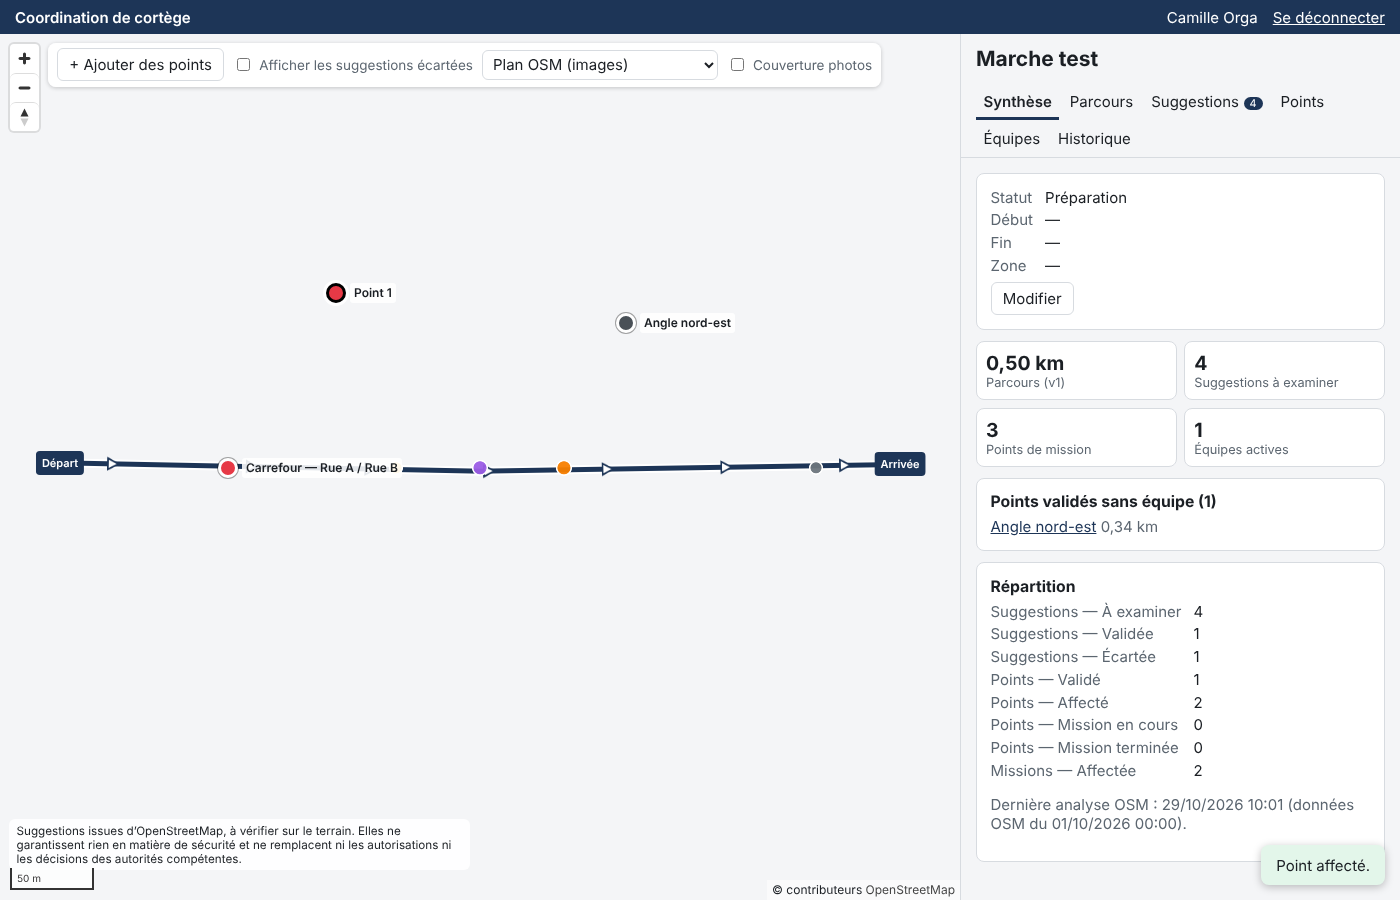
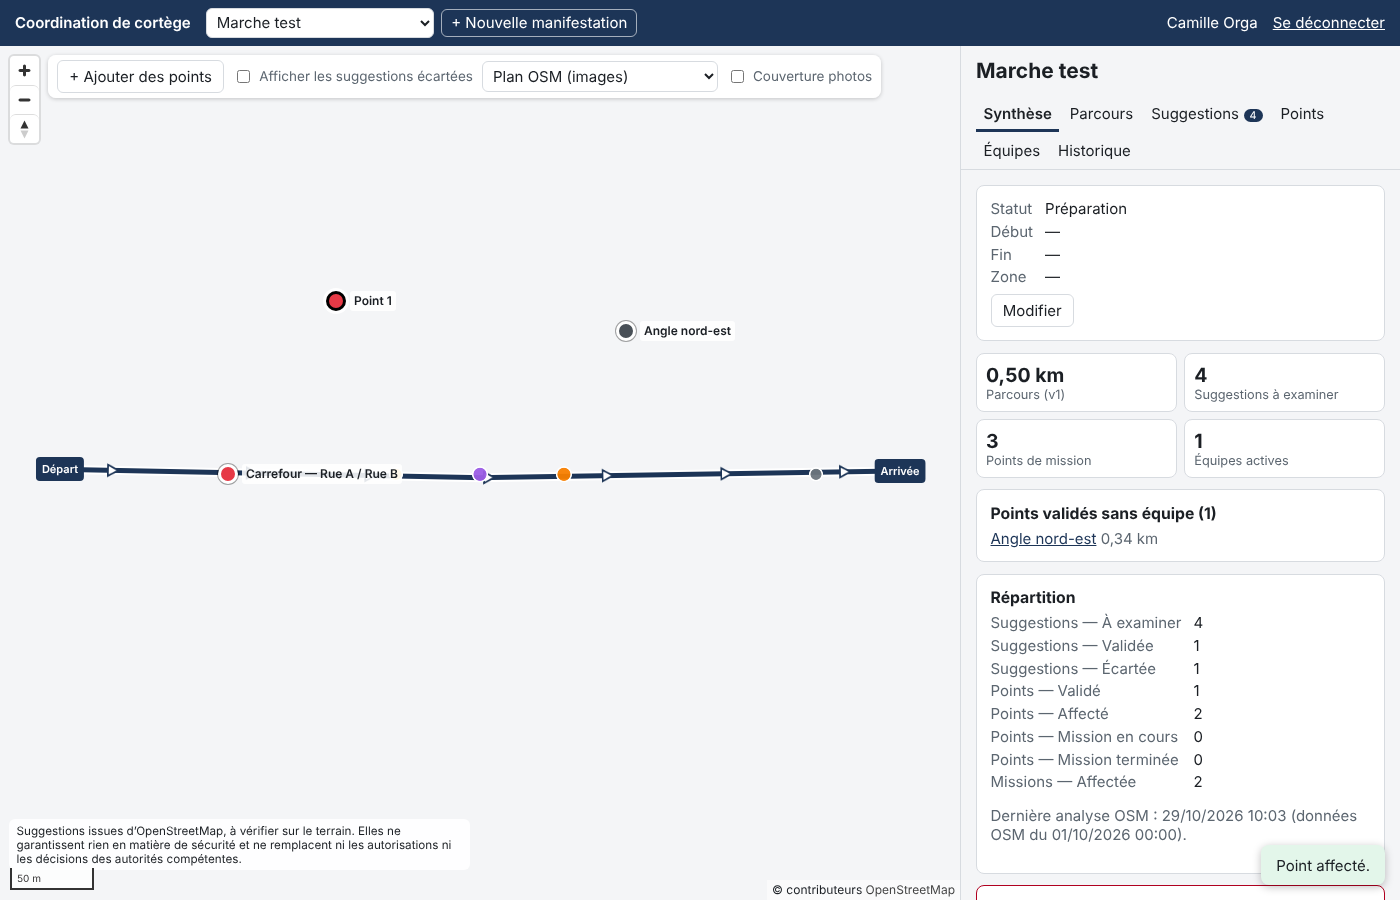
Manifestations : bascule et création depuis la barre du haut, suppression
- Barre du haut : liste des manifestations accessibles pour basculer de
  l'une à l'autre, bouton « + Nouvelle manifestation » (fenêtre de création)
- Suppression définitive d'une manifestation depuis sa synthèse : réservée
  à ses organisateurs, nom à retaper, refusée pendant l'événement ; toutes
  ses données sont supprimées, une trace reste dans le journal
- API DELETE /api/events/:id (ordre de suppression compatible avec les
  clés étrangères) et tests d'intégration ; test E2E du parcours complet

Claude-Session: https://claude.ai/code/session_01UxooiTpgr5FJ3Xxd8onjJv

diff --git a/server/test/teams.test.ts b/server/test/teams.test.ts
@@ -1,6 +1,6 @@
 import { afterAll, beforeAll, describe, expect, it } from 'vitest';
 import { Agent, createUser, setup, type TestContext } from './helpers/app.js';
-import { at } from './helpers/osm.js';
+import { at, gpxFrom, referenceNetwork } from './helpers/osm.js';
 
 let ctx: TestContext;
 let orga: Agent;
@@ -130,5 +130,44 @@ describe('équipes', () => {
     const other = (await orga.post('/api/events', { name: 'Autre' })).json().id;
     const foreign = (await orga.post('/api/events/' + other + '/points', { name: 'Ailleurs', position: at(0, 0) })).json().id;
     expect((await orga.post('/api/teams/' + b.id + '/missions', { pointId: foreign })).statusCode).toBe(404);
+  });
+});
+
+describe('suppression d’une manifestation', () => {
+  it('supprime toutes les données après confirmation du nom, et seulement pour un organisateur', async () => {
+    const id = (await orga.post('/api/events', { name: 'À supprimer' })).json().id;
+    const p = (await orga.post('/api/events/' + id + '/points', { name: 'P', position: at(0, 0) })).json().id;
+    const t = (await orga.post('/api/events/' + id + '/teams', { name: 'T', color: '#123456' })).json().id;
+    await orga.post('/api/teams/' + t + '/missions', { pointId: p });
+
+    const lecteur = await createUser(ctx.db, 'lecteur', 'aucun');
+    await orga.put('/api/events/' + id + '/members', { userId: lecteur, role: 'membre' });
+    const l = new Agent(ctx.app);
+    await l.login('lecteur');
+    expect((await l.request('DELETE', '/api/events/' + id, { confirmName: 'À supprimer' })).statusCode).toBe(403);
+
+    expect((await orga.request('DELETE', '/api/events/' + id, { confirmName: 'Autre nom' })).statusCode).toBe(400);
+    await orga.patch('/api/events/' + id, { status: 'en_cours', version: 1 });
+    expect((await orga.request('DELETE', '/api/events/' + id, { confirmName: 'À supprimer' })).statusCode).toBe(409);
+    await orga.patch('/api/events/' + id, { status: 'termine', version: 2 });
+
+    expect((await orga.request('DELETE', '/api/events/' + id, { confirmName: 'À supprimer' })).statusCode).toBe(200);
+    expect((await orga.get('/api/events/' + id)).statusCode).toBe(404);
+    for (const table of ['mission_points', 'teams', 'missions', 'audit_logs']) {
+      expect((await ctx.db.query('SELECT count(*)::int AS n FROM ' + table + ' WHERE event_id = $1', [id])).rows[0].n).toBe(0);
+    }
+    const trace = (await ctx.db.query("SELECT details FROM audit_logs WHERE entity = 'event' AND entity_id = $1 AND action = 'suppression'", [id])).rows;
+    expect(trace[0].details).toMatchObject({ name: 'À supprimer', points: 1, teams: 1, missions: 1 });
+  });
+
+  it('supprime une manifestation avec parcours et analyse OSM', async () => {
+    const id = (await orga.post('/api/events', { name: 'Avec parcours' })).json().id;
+    await orga.upload('/api/events/' + id + '/tracks', gpxFrom([[[0, 3], [250, -2], [500, 2]]]));
+    ctx.osm.data = referenceNetwork();
+    expect((await orga.post('/api/events/' + id + '/analyses', {})).statusCode).toBe(201);
+    const s = (await orga.get('/api/events/' + id + '/suggestions')).json();
+    await orga.post('/api/suggestions/' + s[0].id + '/validate', {});
+    expect((await orga.request('DELETE', '/api/events/' + id, { confirmName: 'Avec parcours' })).statusCode).toBe(200);
+    expect((await ctx.db.query('SELECT count(*)::int AS n FROM gpx_tracks WHERE event_id = $1', [id])).rows[0].n).toBe(0);
   });
 });

diff --git a/web/src/components/EventSwitcher.tsx b/web/src/components/EventSwitcher.tsx
@@ -1,0 +1,74 @@
+// Barre du haut : bascule entre manifestations et création d'une nouvelle manifestation.
+import { useCallback, useEffect, useRef, useState, type FormEvent } from 'react';
+import { ApiError, api } from '../api';
+import type { EventInfo, Me } from '../types';
+
+/** Événement de fenêtre émis quand la liste des manifestations change (création, renommage, suppression). */
+export const EVENTS_CHANGED = 'cortege:manifestations';
+export const notifyEventsChanged = () => window.dispatchEvent(new Event(EVENTS_CHANGED));
+
+export function EventSwitcher({ me, currentId }: { me: Me; currentId: number | null }) {
+  const [events, setEvents] = useState<EventInfo[]>([]);
+  const [creating, setCreating] = useState(false);
+  const canCreate = me.globalRole === 'admin' || me.globalRole === 'organisateur';
+
+  const load = useCallback(() => { api.get<EventInfo[]>('/api/events').then(setEvents, () => setEvents([])); }, []);
+  useEffect(() => {
+    load();
+    window.addEventListener(EVENTS_CHANGED, load);
+    return () => window.removeEventListener(EVENTS_CHANGED, load);
+  }, [load, currentId]);
+
+  return (
+    <div className="event-switcher">
+      <select
+        aria-label="Manifestation"
+        value={currentId ?? ''}
+        onChange={(e) => { window.location.hash = e.target.value ? '#/evenements/' + e.target.value : '#/'; }}
+      >
+        <option value="">Toutes les manifestations…</option>
+        {events.map((ev) => <option key={ev.id} value={ev.id}>{ev.name}</option>)}
+      </select>
+      {canCreate && <button className="on-dark" onClick={() => setCreating(true)}>+ Nouvelle manifestation</button>}
+      {creating && <NewEventDialog onClose={() => setCreating(false)} />}
+    </div>
+  );
+}
+
+function NewEventDialog({ onClose }: { onClose: () => void }) {
+  const ref = useRef<HTMLDialogElement>(null);
+  const [name, setName] = useState('');
+  const [startsAt, setStartsAt] = useState('');
+  const [areaName, setAreaName] = useState('');
+  const [error, setError] = useState<string | null>(null);
+  useEffect(() => { ref.current?.showModal(); }, []);
+
+  const submit = async (e: FormEvent) => {
+    e.preventDefault();
+    setError(null);
+    try {
+      const ev = await api.post<EventInfo>('/api/events', { name, areaName, startsAt: startsAt ? new Date(startsAt).toISOString() : null });
+      notifyEventsChanged();
+      onClose();
+      window.location.hash = '#/evenements/' + ev.id;
+    } catch (err) {
+      setError(err instanceof ApiError ? err.message : 'Création impossible.');
+    }
+  };
+
+  return (
+    <dialog ref={ref} className="dialog" onClose={onClose} aria-label="Nouvelle manifestation">
+      <form className="stack" onSubmit={submit}>
+        <h2>Nouvelle manifestation</h2>
+        <label>Nom<input value={name} onChange={(e) => setName(e.target.value)} required maxLength={200} autoFocus /></label>
+        <label>Début prévu<input type="datetime-local" value={startsAt} onChange={(e) => setStartsAt(e.target.value)} /></label>
+        <label>Zone géographique<input value={areaName} onChange={(e) => setAreaName(e.target.value)} maxLength={200} /></label>
+        {error && <p className="error">{error}</p>}
+        <div className="row">
+          <button className="primary">Créer</button>
+          <button type="button" onClick={onClose}>Annuler</button>
+        </div>
+      </form>
+    </dialog>
+  );
+}

diff --git a/web/src/pages/event/SummaryPanel.tsx b/web/src/pages/event/SummaryPanel.tsx
@@ -1,5 +1,6 @@
 import { Fragment, useState, type FormEvent } from 'react';
-import { api } from '../../api';
+import { ApiError, api } from '../../api';
+import { notifyEventsChanged } from '../../components/EventSwitcher';
 import { EVENT_STATUS, MISSION_STATUS, POINT_STATUS, SUGGESTION_STATUS, dateTime, km } from '../../labels';
 import type { PanelProps } from '../EventPage';
 
@@ -19,7 +20,10 @@ export function SummaryPanel({ data, canEdit, run, select }: PanelProps) {
       () => api.patch('/api/events/' + ev.id, { ...form, startsAt: fromLocal(form.startsAt), endsAt: fromLocal(form.endsAt), version: ev.version }),
       'Événement enregistré.',
     );
-    if (ok) setEditing(false);
+    if (ok) {
+      setEditing(false);
+      notifyEventsChanged();
+    }
   };
   const count = (m: Record<string, number>, k: string) => m[k] ?? 0;
 
@@ -86,6 +90,50 @@ export function SummaryPanel({ data, canEdit, run, select }: PanelProps) {
         </dl>
         {s.lastAnalysis && <p className="muted">Dernière analyse OSM : {dateTime(s.lastAnalysis.at)} (données OSM du {dateTime(s.lastAnalysis.osmTimestamp)}).</p>}
       </div>
+      {canEdit && <DeleteEvent id={ev.id} name={ev.name} running={ev.status === 'en_cours'} />}
+    </div>
+  );
+}
+
+/** Suppression définitive : il faut retaper le nom de la manifestation. */
+function DeleteEvent({ id, name, running }: { id: number; name: string; running: boolean }) {
+  const [open, setOpen] = useState(false);
+  const [typed, setTyped] = useState('');
+  const [error, setError] = useState<string | null>(null);
+  const [busy, setBusy] = useState(false);
+  const remove = async (e: FormEvent) => {
+    e.preventDefault();
+    setBusy(true);
+    setError(null);
+    try {
+      await api.delete('/api/events/' + id, { confirmName: typed });
+      notifyEventsChanged();
+      window.location.hash = '#/';
+    } catch (err) {
+      setError(err instanceof ApiError ? err.message : 'Suppression impossible.');
+      setBusy(false);
+    }
+  };
+  return (
+    <div className="card danger-zone">
+      <h3>Supprimer la manifestation</h3>
+      {!open ? (
+        <>
+          <p className="muted">Supprime définitivement le parcours, les suggestions, les points, les équipes, les missions et l’historique.</p>
+          <button className="danger" onClick={() => setOpen(true)} disabled={running} title={running ? 'Impossible pendant la manifestation' : undefined}>Supprimer…</button>
+          {running && <p className="muted small">Manifestation en cours : changez d’abord son statut.</p>}
+        </>
+      ) : (
+        <form className="stack" onSubmit={remove}>
+          <p>Cette action est <b>irréversible</b>. Pour confirmer, saisissez le nom de la manifestation : <b>{name}</b></p>
+          <input aria-label="Nom de la manifestation à supprimer" value={typed} onChange={(e) => setTyped(e.target.value)} autoComplete="off" />
+          {error && <p className="error">{error}</p>}
+          <div className="row">
+            <button className="danger" disabled={busy || typed.trim() !== name.trim()}>Supprimer définitivement</button>
+            <button type="button" onClick={() => { setOpen(false); setTyped(''); }}>Annuler</button>
+          </div>
+        </form>
+      )}
     </div>
   );
 }

diff --git a/server/src/routes/events.ts b/server/src/routes/events.ts
@@ -3,7 +3,7 @@ import { z } from 'zod';
 import { idParam, requireUser } from '../app.js';
 import { audit } from '../audit.js';
 import { tx } from '../db.js';
-import { conflict, notFound } from '../errors.js';
+import { badRequest, conflict, notFound } from '../errors.js';
 import { requireCanCreateEvent, requireEventRole } from '../permissions.js';
 import { POINT_STATUS_SQL } from '../services/points.js';
 
@@ -95,6 +95,41 @@ export async function eventRoutes(app: FastifyInstance) {
       const changes = Object.fromEntries(Object.entries(b).filter(([k]) => k !== 'version' && k !== 'instructions' && k !== 'description'));
       await audit(c, { actorId: u.id, eventId: id, entity: 'event', entityId: id, action: 'modification', details: changes });
       return publicEvent(r.rows[0]);
+    });
+  });
+
+  // Suppression définitive d'une manifestation et de toutes ses données (parcours, suggestions, points, équipes,
+  // missions, historique). Réservée à ses organisateurs ; il faut retaper son nom ; refusée pendant l'événement.
+  app.delete('/api/events/:id', async (req) => {
+    const u = requireUser(req);
+    const id = idParam(req);
+    const b = z.object({ confirmName: z.string() }).parse(req.body ?? {});
+    return tx(app.db, async (c) => {
+      await requireEventRole(c, u, id, 'organisation');
+      const ev = (await c.query('SELECT * FROM events WHERE id = $1 FOR UPDATE', [id])).rows[0];
+      if (b.confirmName.trim() !== ev.name.trim()) throw badRequest('Le nom saisi ne correspond pas à celui de la manifestation.');
+      if (ev.status === 'en_cours') throw conflict('Manifestation en cours : changez d’abord son statut pour la supprimer.');
+      const counts = (
+        await c.query(
+          `SELECT (SELECT count(*) FROM mission_points WHERE event_id = $1)::int AS points,
+                  (SELECT count(*) FROM teams WHERE event_id = $1)::int AS teams,
+                  (SELECT count(*) FROM missions WHERE event_id = $1)::int AS missions,
+                  (SELECT count(*) FROM gpx_tracks WHERE event_id = $1)::int AS tracks`,
+          [id],
+        )
+      ).rows[0];
+      // Ordre imposé par les clés étrangères « RESTRICT » entre les données de l'événement.
+      await c.query('DELETE FROM missions WHERE event_id = $1', [id]);
+      await c.query('DELETE FROM mission_points WHERE event_id = $1', [id]);
+      await c.query('DELETE FROM map_suggestions WHERE event_id = $1', [id]);
+      await c.query('DELETE FROM osm_analyses WHERE event_id = $1', [id]);
+      await c.query('UPDATE events SET current_track_id = NULL WHERE id = $1', [id]);
+      await c.query('DELETE FROM gpx_tracks WHERE event_id = $1', [id]);
+      await c.query('DELETE FROM teams WHERE event_id = $1', [id]);
+      await c.query('DELETE FROM events WHERE id = $1', [id]);
+      // L'historique de l'événement disparaît avec lui ; seule une trace de la suppression est conservée.
+      await audit(c, { actorId: u.id, eventId: null, entity: 'event', entityId: id, action: 'suppression', details: { name: ev.name, ...counts } });
+      return { ok: true };
     });
   });
 

diff --git a/e2e/manifestations.spec.ts b/e2e/manifestations.spec.ts
@@ -1,0 +1,42 @@
+// Barre du haut : créer une manifestation, basculer de l'une à l'autre, en supprimer une.
+import { expect, test } from '@playwright/test';
+
+const H = { 'x-requested-with': 'cortege' };
+
+test('créer, basculer, supprimer une manifestation', async ({ page }) => {
+  await page.addInitScript(() => localStorage.setItem('cortege.fond', 'osm'));
+  await page.request.post('/api/auth/login', { data: { login: 'admin', password: 'admin-e2e-motdepasse' }, headers: H });
+  const first = await (await page.request.post('/api/events', { data: { name: 'Marche A' }, headers: H })).json();
+  await page.goto('/#/evenements/' + first.id);
+  await expect(page.getByRole('heading', { name: 'Marche A' })).toBeVisible();
+
+  // Création depuis la barre du haut.
+  await page.getByRole('button', { name: '+ Nouvelle manifestation' }).click();
+  const dialog = page.getByRole('dialog', { name: 'Nouvelle manifestation' });
+  await dialog.getByLabel('Nom').fill('Marche B');
+  await dialog.getByLabel('Zone géographique').fill('Lyon');
+  await dialog.getByRole('button', { name: 'Créer' }).click();
+  await expect(page.getByRole('heading', { name: 'Marche B' })).toBeVisible();
+  const switcher = page.getByLabel('Manifestation', { exact: true });
+  await expect(switcher).toHaveValue(/\d+/);
+  const idB = new URL(page.url()).hash.split('/').pop()!;
+
+  // Bascule vers la première puis retour.
+  await switcher.selectOption({ label: 'Marche A' });
+  await expect(page.getByRole('heading', { name: 'Marche A' })).toBeVisible();
+  await expect(page).toHaveURL(new RegExp('#/evenements/' + first.id + '$'));
+  await switcher.selectOption({ label: 'Marche B' });
+  await expect(page.getByRole('heading', { name: 'Marche B' })).toBeVisible();
+
+  // Suppression : bouton désactivé tant que le nom n'est pas retapé.
+  await page.getByRole('button', { name: 'Supprimer…' }).click();
+  const confirm = page.getByRole('button', { name: 'Supprimer définitivement' });
+  await expect(confirm).toBeDisabled();
+  await page.getByLabel('Nom de la manifestation à supprimer').fill('Marche b');
+  await expect(confirm).toBeDisabled();
+  await page.getByLabel('Nom de la manifestation à supprimer').fill('Marche B');
+  await confirm.click();
+  await expect(page.getByRole('heading', { name: 'Événements' })).toBeVisible();
+  await expect(switcher.locator('option', { hasText: 'Marche B' })).toHaveCount(0);
+  expect((await page.request.get('/api/events/' + idB)).status()).toBe(404);
+});

diff --git a/web/src/styles.css b/web/src/styles.css
@@ -173,3 +173,12 @@ ol.missions { padding-left: 1.4rem; margin: .4rem 0; display: flex; flex-directi
 .map-menu { display: flex; flex-direction: column; gap: .35rem; min-width: 240px; }
 .map-menu > button { text-align: left; }
 ul.compact { margin: 0; padding-left: 1.1rem; }
+
+/* Barre du haut : choix de la manifestation */
+.event-switcher { display: flex; gap: .5rem; align-items: center; }
+.event-switcher select { width: auto; max-width: 280px; padding: .25rem .4rem; }
+.topbar button.on-dark { background: transparent; color: #fff; border-color: rgba(255,255,255,.6); padding: .25rem .6rem; }
+.dialog { border: 1px solid var(--border); border-radius: 10px; padding: 1.2rem; width: min(420px, calc(100% - 2rem)); background: var(--surface); color: var(--text); }
+.dialog::backdrop { background: rgba(0,0,0,.4); }
+.danger-zone { border-color: var(--danger); }
+@media (max-width: 800px) { .event-switcher select { max-width: 160px; } }

diff --git a/web/src/App.tsx b/web/src/App.tsx
@@ -1,5 +1,6 @@
 import { useCallback, useEffect, useState } from 'react';
 import { ApiError, api } from './api';
+import { EventSwitcher } from './components/EventSwitcher';
 import { EventPage } from './pages/EventPage';
 import { EventsPage } from './pages/EventsPage';
 import { LoginPage } from './pages/LoginPage';
@@ -42,6 +43,7 @@ export function App() {
     <div className="app">
       <header className="topbar">
         <a href="#/" className="brand">Coordination de cortège</a>
+        <EventSwitcher me={me} currentId={m ? Number(m[1]) : null} />
         <span className="spacer" />
         <span className="muted">{me.displayName}{me.globalRole === 'admin' ? ' (administrateur)' : ''}</span>
         <button className="link" onClick={logout}>Se déconnecter</button>

diff --git a/web/src/api.ts b/web/src/api.ts
@@ -24,5 +24,5 @@ export const api = {
   post: <T>(url: string, body: unknown = {}) => request<T>('POST', url, body),
   patch: <T>(url: string, body: unknown) => request<T>('PATCH', url, body),
   put: <T>(url: string, body: unknown) => request<T>('PUT', url, body),
-  delete: <T>(url: string) => request<T>('DELETE', url),
+  delete: <T>(url: string, body?: unknown) => request<T>('DELETE', url, body),
 };

diff --git a/README.md b/README.md
@@ -32,6 +32,9 @@ La conception complète (architecture, modèle de données, écrans, flux d'invi
 - **Comptes administrés** : pas d'inscription publique. Le premier administrateur est créé en ligne de commande ;
   les administrateurs créent les autres comptes (`POST /api/admin/users`, écran prévu en phase 2).
 - **Événements** isolés : chaque compte ne voit que ceux auxquels il a accès ; un administrateur voit tout.
+  La barre du haut permet de basculer d'une manifestation à l'autre et d'en créer une nouvelle ; un organisateur
+  peut supprimer définitivement une manifestation depuis sa synthèse (nom à retaper, impossible pendant
+  l'événement ; seule une trace de la suppression est conservée dans le journal).
 - **Parcours GPX** : validation, longueur, distances cumulées, boucles, segments disjoints, sauts suspects, points
   de passage ; remplacement versionné avec aperçu des points qui s'éloigneraient du nouveau tracé, confirmation,
   et aucune suppression.
@@ -51,9 +54,12 @@ La conception complète (architecture, modèle de données, écrans, flux d'invi
 - **Équipes et missions** : création, couleur, responsable, consignes, désactivation ; affectation ordonnée,
   réordonnancement, réaffectation, statuts de mission avec transitions contrôlées (la fin d'une mission ne libère
   pas le point).
-- **Fonds de carte** au choix (mémorisé dans le navigateur) : plan OpenStreetMap, plan IGN, photo aérienne IGN
-  (France), satellite Esri (monde).
-- **Photos de rue Panoramax** : un clic sur la carte (hors mode ajout) ouvre la photo
+- **Fonds de carte** au choix (mémorisé dans le navigateur) : plan OSM vectoriel (par défaut, net à tout zoom),
+  plan OSM en images, plan IGN, photo aérienne IGN (France), satellite Esri (monde).
+- **Clic sur la carte** : menu avec la position (et la distance sur le parcours), « Voir les photos ici »,
+  « Ajouter un point ici », « Copier les coordonnées ». Un clic sur une suggestion ouvre sa bulle (valider,
+  écarter, photos, détails).
+- **Photos de rue Panoramax** : « Voir les photos ici » ouvre la photo
   [Panoramax](https://panoramax.fr) la plus proche (à moins de 50 m) dans le viewer officiel, pour vérifier un
   carrefour ou un accès sans se déplacer ; un clic sur un point ou une suggestion montre la photo la plus proche de
   cet élément. La couverture photo est tracée en orange à partir du zoom 13. Désactivable dans la barre de la carte
